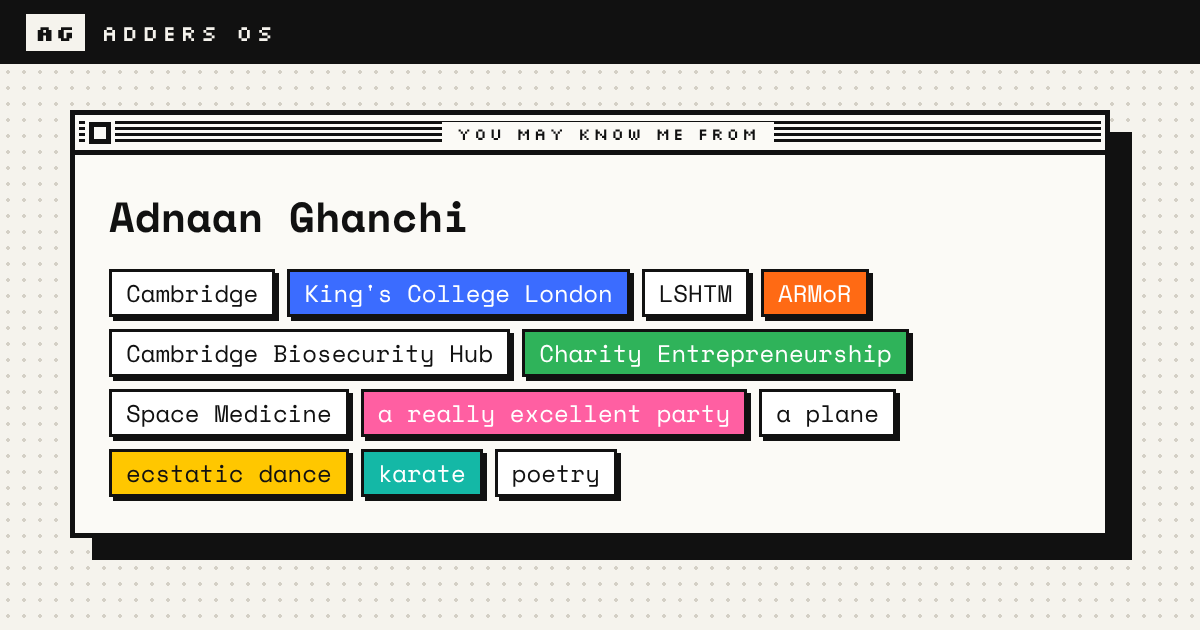
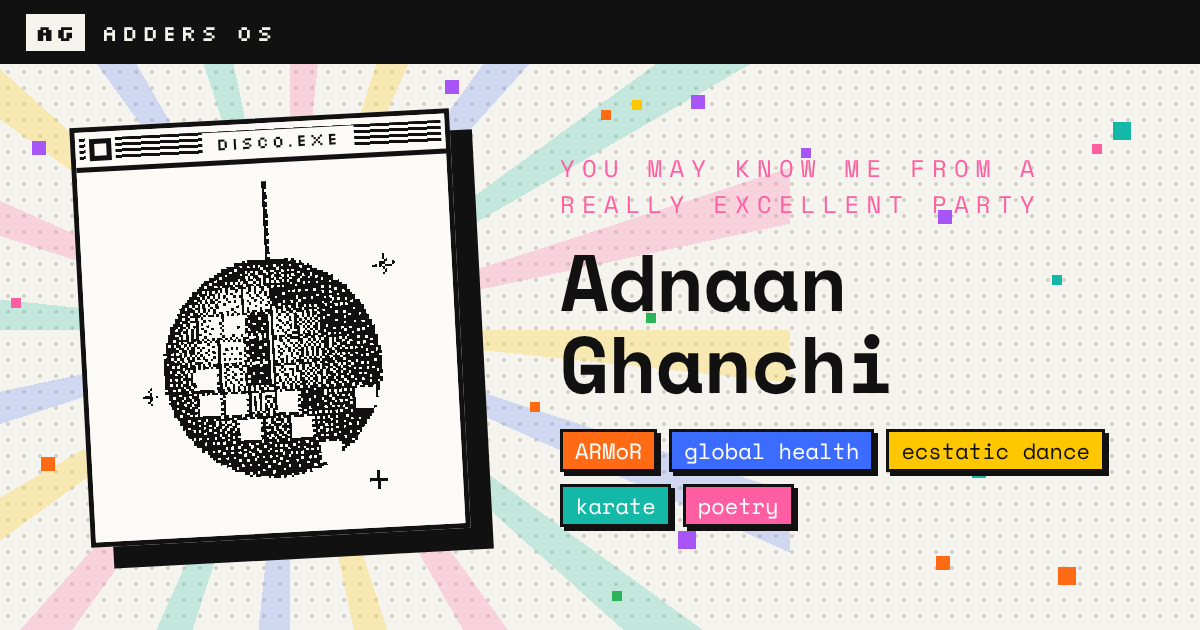
Link preview: disco ball, colour and name
Claude-Session: https://claude.ai/code/session_01BQSd4bs8w7NkQPYEEyGhRS

diff --git a/public/index.html b/public/index.html
@@ -13,7 +13,7 @@
 <meta property="og:image" content="https://adders.party/og.png">
 <meta property="og:image:width" content="1200">
 <meta property="og:image:height" content="630">
-<meta property="og:image:alt" content="Adnaan Ghanchi: you may know me from Cambridge, King's College London, ARMoR, a really excellent party and more">
+<meta property="og:image:alt" content="Adnaan Ghanchi: a pixel disco ball with colourful light beams and tags for ARMoR, global health, ecstatic dance, karate and poetry">
 <meta name="twitter:card" content="summary_large_image">
 <meta name="twitter:title" content="Adnaan Ghanchi">
 <meta name="twitter:description" content="Antimicrobial resistance, global health and philanthropy. Also: a really excellent party.">
